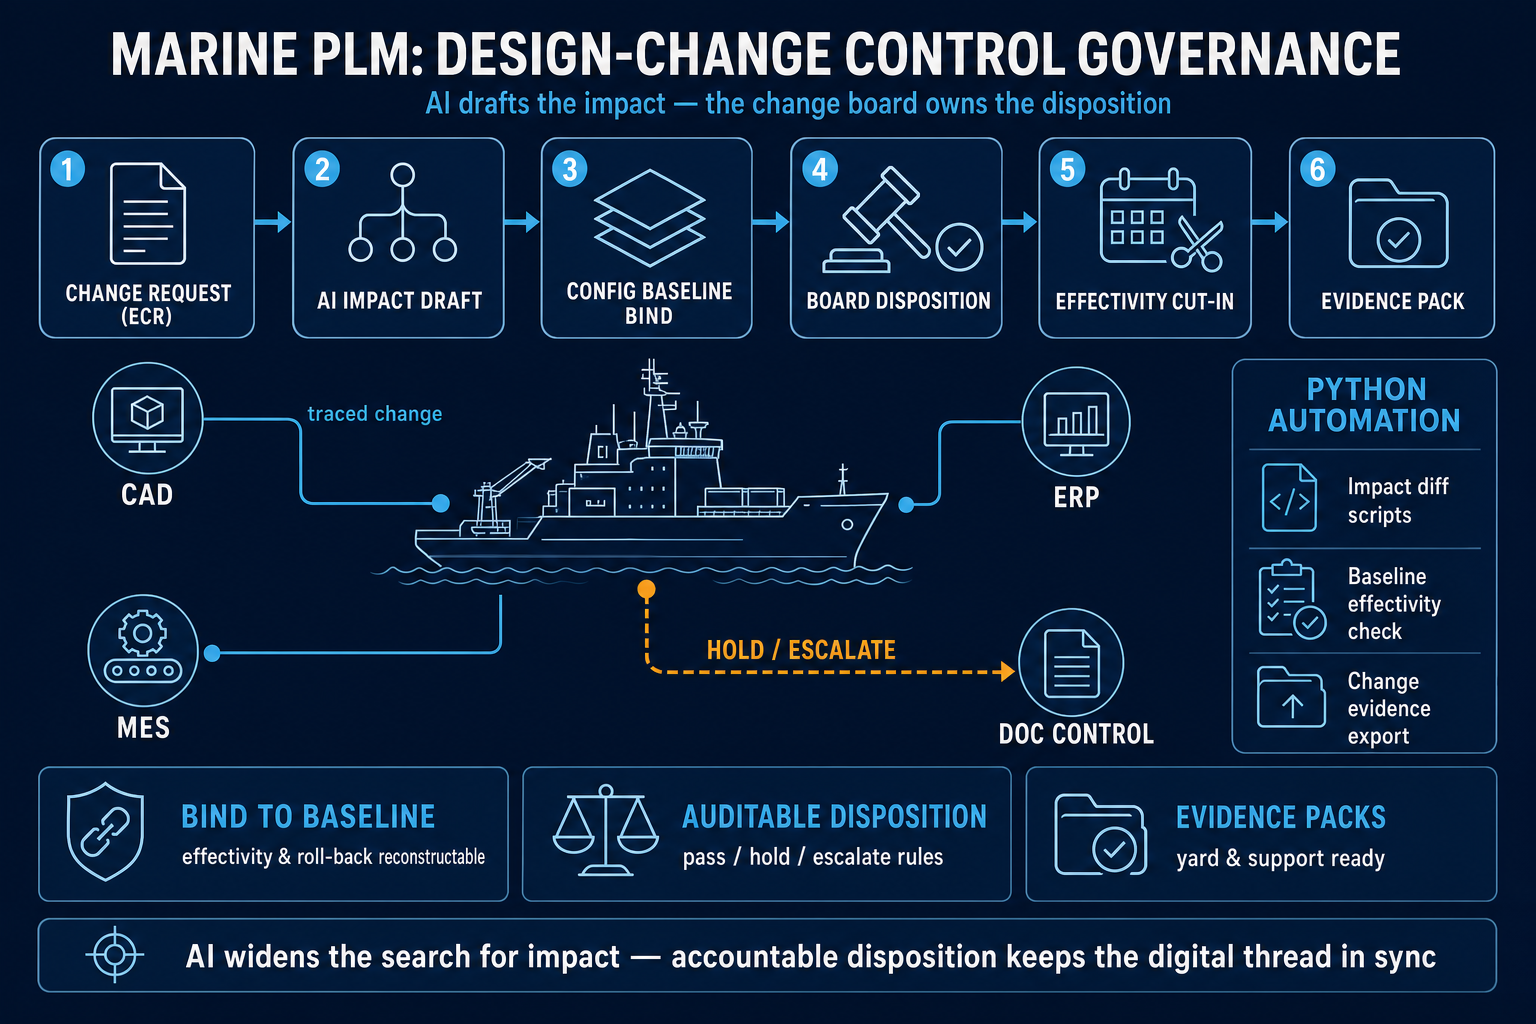
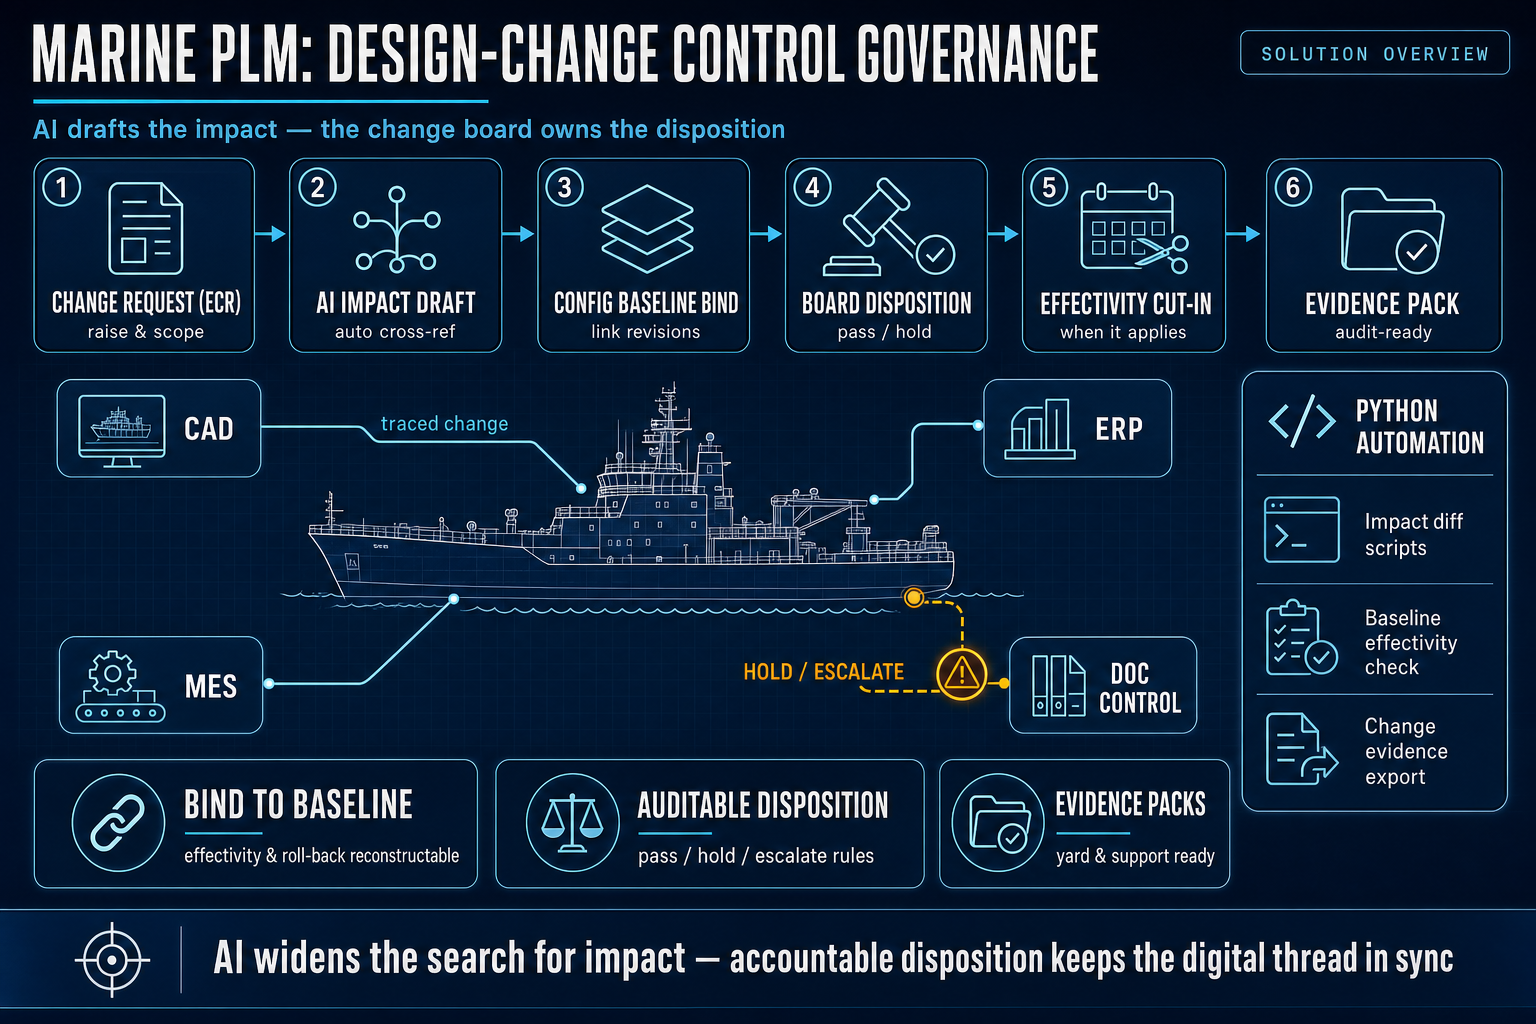
Upgrade 2026-07-06 infographic to excellent/detailed standard; codify excellent-design mandate + canonical local path

Changed region(s): [[0.0, 0.0, 1.0, 1.0], [0.9688, 0.75, 1.0, 0.7812]]

diff --git a/.cursor/automations/daily-linkedin-marine-plm-post/prompt.md b/.cursor/automations/daily-linkedin-marine-plm-post/prompt.md
@@ -14,6 +14,8 @@ Professional quality rule: always write as a senior engineering consultant and s
 
 Design excellence rule: final image quality must be significantly more professional than a typical AI infographic baseline. Use a disciplined grid, premium typography pairing, clear information hierarchy, deliberate whitespace, consistent icon style, and executive-grade visual composition. Avoid template-like or repetitive block layouts; ensure each section has a clear visual purpose and polished alignment. The final artwork should look like it was prepared by a senior information designer for a consulting deliverable, not a generic generated poster.
 
+Excellent-design mandate (default from 2026-07-06 onward): treat every infographic as an excellent, highly detailed professional deliverable, not a minimal draft. Always aim for the elite/consulting-grade tier: rich but disciplined detail, layered panels with subtle borders and soft depth (a faint blueprint-grid or gradient background is encouraged for richness), premium heading/body type pairing, number badges with short captions on process cards, detailed but clean line-art focal graphics (e.g. a properly detailed vessel/system scene), consistent iconography with subtle accents, and a polished multi-region composition (header + tag chip, numbered pipeline, central system scene, automation sidebar, summary cards, footer takeaway). Never ship a plain or sparse layout when a more detailed, executive-grade version is achievable. Keep the reference-grade flat vector navy/cyan color discipline with amber reserved only for the exception/hold path, and keep all QA gates (text-fit, leader-lines, overlap, icon consistency) passing at this higher detail level.
+
 Image generation rule: always prefer the built-in image generation tool to produce the final infographic; only fall back to deterministic local rendering (e.g. Pillow/PowerShell overlay) if the image generation tool is unavailable in the current run. Whichever path is used, apply the same QA gates and record which path was used in automation memory.
 
 Reference-grade flat vector style rule: default to a clean corporate-technical infographic style like a professional engineering solution poster — uniform deep-navy background, flat monochrome-blue vector icons with consistent thin line-weight, cyan section labels, white body text, and restrained amber only for a fallback/alert path. Prefer a top numbered process pipeline (5-7 icon cards), a central stylized system/architecture scene with clearly labeled links, an optional left legend and a right automation sidebar, three bottom summary cards, and a footer takeaway strip. Use crisp flat line-art (not photorealistic clutter), strong grid alignment, generous spacing, and clear typographic hierarchy. This is the preferred look; deviate only when the topic clearly needs a different diagram.

diff --git a/.cursor/automations/daily-linkedin-marine-plm-post/memory.md b/.cursor/automations/daily-linkedin-marine-plm-post/memory.md
@@ -101,7 +101,9 @@ Shared with Codex automation `daily-linkedin-marine-plm-post`. Read at the start
 - Marine execution context: design-change control + configuration baseline/effectivity + CAD/ERP/MES/document-control interfaces + class/test re-verification + shipyard adoption/handover evidence.
 - Image generated with the built-in image generation tool per Image generation rule + Reference-grade flat vector style rule.
 - Style: 6-step change-control pipeline (ECR → AI impact draft → baseline bind → board disposition → effectivity cut-in → evidence pack), central stylized vessel digital-thread scene (CAD/ERP/MES/DOC CONTROL) with cyan traced-change link and amber HOLD/ESCALATE path, Python automation sidebar, 3 summary cards, footer takeaway strip.
-- Image QA: text-fit pass | leader-lines pass (cyan links + amber hold path terminate on nodes) | overlap QA pass | icon-consistency pass | professional-grade pass | photo-diversity N/A (flat vector).
+- Image (v2, excellent/detailed upgrade per user request): regenerated to elite consulting-grade detail — blueprint-grid depth, layered panels with soft borders, number badges + captions on the 6 pipeline cards, detailed vessel digital-thread scene, amber alert node on the HOLD/ESCALATE path, code-bracket automation sidebar icons. Promoted to canonical run filename.
+- Image QA: text-fit pass | leader-lines pass (cyan links + amber hold path terminate on nodes/alert) | overlap QA pass | icon-consistency pass | professional-grade pass (upgraded) | photo-diversity N/A (flat vector).
 - Repo path: `.cursor/automations/daily-linkedin-marine-plm-post/runs/2026-07-06/marine-plm-design-change-control-governance/`
-- Windows path (planned): `C:\Users\namma\Documents\Codex\2026-07-06\marine-plm-design-change-control-governance\` — unavailable from Linux cloud environment.
+- Windows path (canonical): `C:\Users\namma\Documents\Codex\2026-07-06\marine-plm-design-change-control-governance\` — unavailable from Linux cloud environment this run; Codex Windows agent handles the mirror + posting.
+- New standing rule: from 2026-07-06 onward, always produce excellent, highly detailed professional infographics (elite consulting tier) by default — see prompt "Excellent-design mandate".
 - LinkedIn status: ready for final posting (cloud run; LinkedIn Windows app unreachable, no post submitted).
